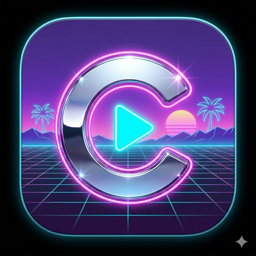
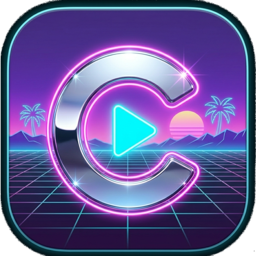
chore: prep v0.1.0 release
- Build Release as universal binary (arm64 + x86_64) via per-config
  ARCHS in project.yml; Debug stays single-arch for fast iteration.
- Replace icon source with watermark-free version; regenerate the
  full AppIcon.appiconset and README header.
- README: mention universal-binary support.
- CHANGELOG: promote [Unreleased] to [0.1.0] - 2026-05-11 and tighten
  the entry list.

diff --git a/CHANGELOG.md b/CHANGELOG.md
@@ -7,14 +7,15 @@ and this project adheres to [Semantic Versioning](https://semver.org/spec/v2.0.0
 
 ## [Unreleased]
 
+## [0.1.0] - 2026-05-11
+
+First public release.
+
 ### Added
-- Initial project scaffolding (Swift / SwiftUI / WKWebView wrapper for `music.youtube.com`)
-- Native macOS Now Playing integration via `MPNowPlayingInfoCenter`
-- Media-key support (F7/F8/F9) and AirPods remote-control via `MPRemoteCommandCenter`
-- Menubar mini-player with current-track display and transport controls
-- Persistent login across app launches (cookies stored in `WKWebsiteDataStore`)
-- Window-hide-on-close behavior (Apple Music style); `Cmd+Q` to quit
-
-## [0.1.0] - TBD
-
-First public release. See **Unreleased** above for the full feature set.
+- Native SwiftUI shell wrapping `music.youtube.com` in a `WKWebView`.
+- Native macOS Now Playing integration via `MPNowPlayingInfoCenter` — current track, artist, artwork, and scrubber show in Control Center.
+- Media-key support (F7 / F8 / F9), AirPods stem clicks, and Bluetooth headset remote control via `MPRemoteCommandCenter`.
+- Menubar mini-player with current-track display and play / pause / previous / next controls.
+- Persistent login across app launches (cookies stored in `WKWebsiteDataStore`).
+- Custom About panel with clickable GitHub + Ko-fi links.
+- Universal binary (Apple Silicon + Intel) — runs on any Mac that meets the macOS 14 requirement.

diff --git a/README.md b/README.md
@@ -22,6 +22,7 @@ There's no official YouTube Music app for macOS. Browser tabs get killed, buried
 - 🔐 Stays logged in across launches (cookies persist via `WKWebsiteDataStore`)
 - 🚫 No ad injection, no scraping, no API misuse — works best with **YouTube Music Premium** for an ad-free experience
 - 🎨 Built with SwiftUI, macOS 14+
+- 💻 Universal binary — runs natively on Apple Silicon **and** Intel Macs
 
 ## Requirements
 
